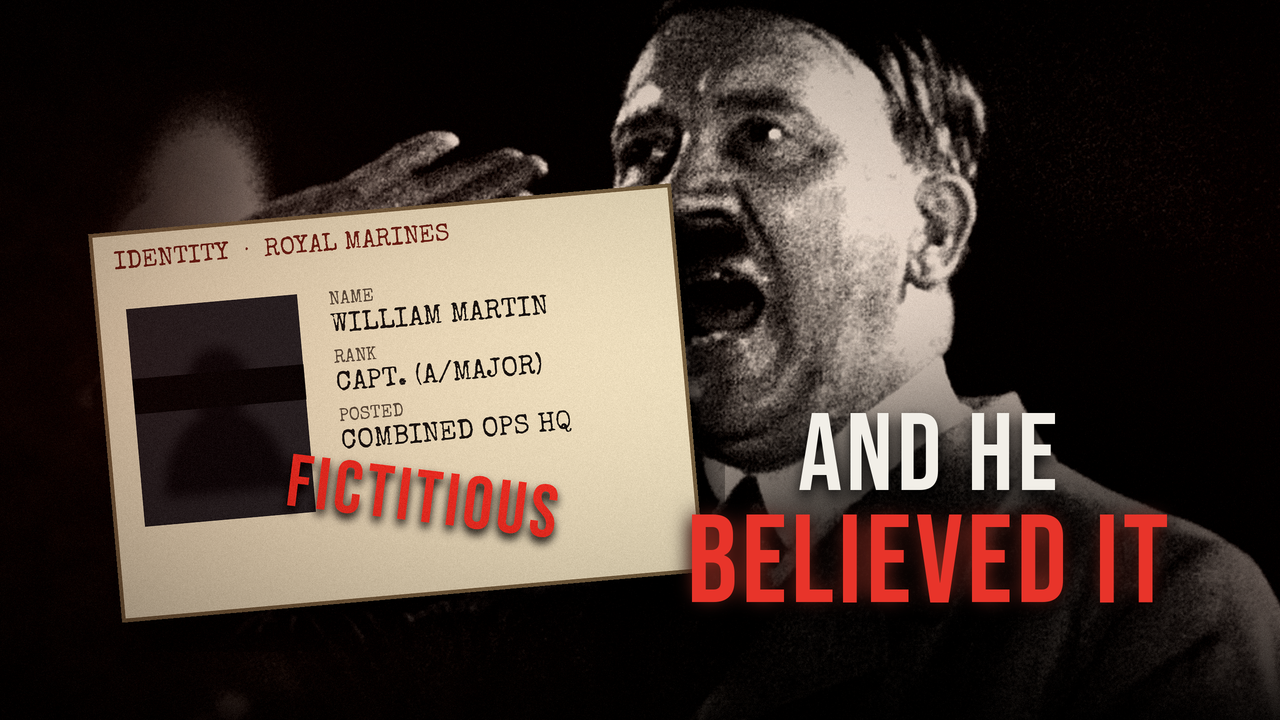
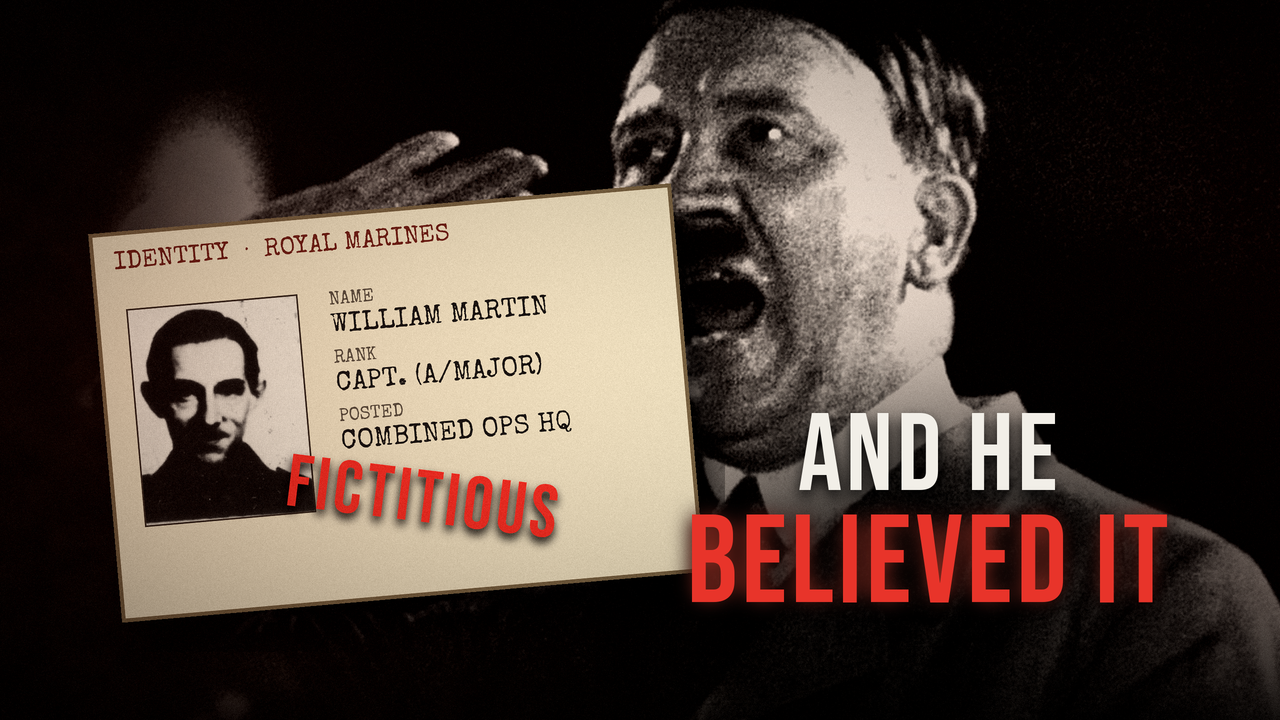
Mincemeat thumbnails: real ID-card portrait (Ronnie Reed, public domain) in the file box
Claude-Session: https://claude.ai/code/session_01E5Mjn7bpWzLNxZwAD9kq1G

Changed region(s): [[0.0938, 0.3972, 0.25, 0.6722], [0.125, 0.7028, 0.2188, 0.7333]]

diff --git a/WAR_FILES_OPERATION_MINCEMEAT/project/src/thumbs_hitler.py b/WAR_FILES_OPERATION_MINCEMEAT/project/src/thumbs_hitler.py
@@ -38,9 +38,12 @@ def id_card(angle=5, scale=0.78):
     d.text((60, 50), "IDENTITY  ·  ROYAL MARINES", font=font(F_TYPE, 64), fill=(110, 40, 30))
     for i, (k, v) in enumerate([("NAME", "WILLIAM MARTIN"), ("RANK", "CAPT. (A/MAJOR)"), ("POSTED", "COMBINED OPS HQ")]):
         d.text((600, 200 + i * 150), k, font=font(F_TYPE, 46), fill=(90, 80, 66)); d.text((600, 255 + i * 150), v, font=font(F_TYPE, 70), fill=(30, 28, 26))
-    ph = Image.new("RGBA", (440, 560), (40, 40, 42, 255)); pd = ImageDraw.Draw(ph)
-    pd.ellipse([140, 120, 300, 300], fill=(16, 16, 18)); pd.pieslice([60, 280, 380, 700], 180, 360, fill=(16, 16, 18))
-    card.alpha_composite(ph.filter(ImageFilter.GaussianBlur(14)), (80, 200)); d.rectangle([80, 380, 520, 470], fill=(12, 12, 12))
+    # photo from the ORIGINAL 'Major Martin' identity card (MI5 officer Ronnie Reed posed for it) — public domain
+    src = Image.open(os.path.join(P, "assets", "archival", "id_card.jpg")).convert("L").crop((980, 239, 1285, 628))
+    src = ImageOps.autocontrast(src, cutoff=1).resize((440, 560), Image.LANCZOS)
+    tone = np.asarray(src, np.float32)[..., None] / 255; tone = tone * np.array([230, 222, 205]) + (1 - tone) * np.array([14, 12, 10])
+    ph = Image.fromarray(tone.clip(0, 255).astype(np.uint8)).convert("RGBA")
+    card.alpha_composite(ph, (80, 200)); d.rectangle([80, 200, 520, 760], outline=(60, 50, 40), width=4)
     card.alpha_composite(word("FICTITIOUS", 190, ACC, track=10).rotate(-12, expand=True, resample=Image.BICUBIC), (330, 470))
     card = card.resize((int(1500 * scale), int(1000 * scale)), Image.LANCZOS).rotate(angle, expand=True, resample=Image.BICUBIC)
     return card
